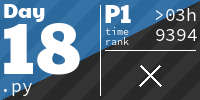
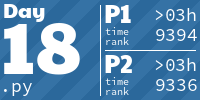
[2024][DAY 18] add solution

diff --git a/2024/day18.py b/2024/day18.py
@@ -91,5 +91,5 @@ def solve_part_ii():
             print(f"Path found byte {i}: {next_byte}, path length: {len(path) - 1}")
             previous_path = path
 
-#solve_part_i()
+solve_part_i()
 solve_part_ii()

diff --git a/README.md b/README.md
@@ -1,6 +1,6 @@
 <!-- AOC TILES BEGIN -->
 <h1 align="center">
-  2024 - 27 ⭐ - Python
+  2024 - 28 ⭐ - Python
 </h1>
 <a href="2024/day01.py">
   <img src=".aoc_tiles/tiles/2024/01.png" width="161px">
